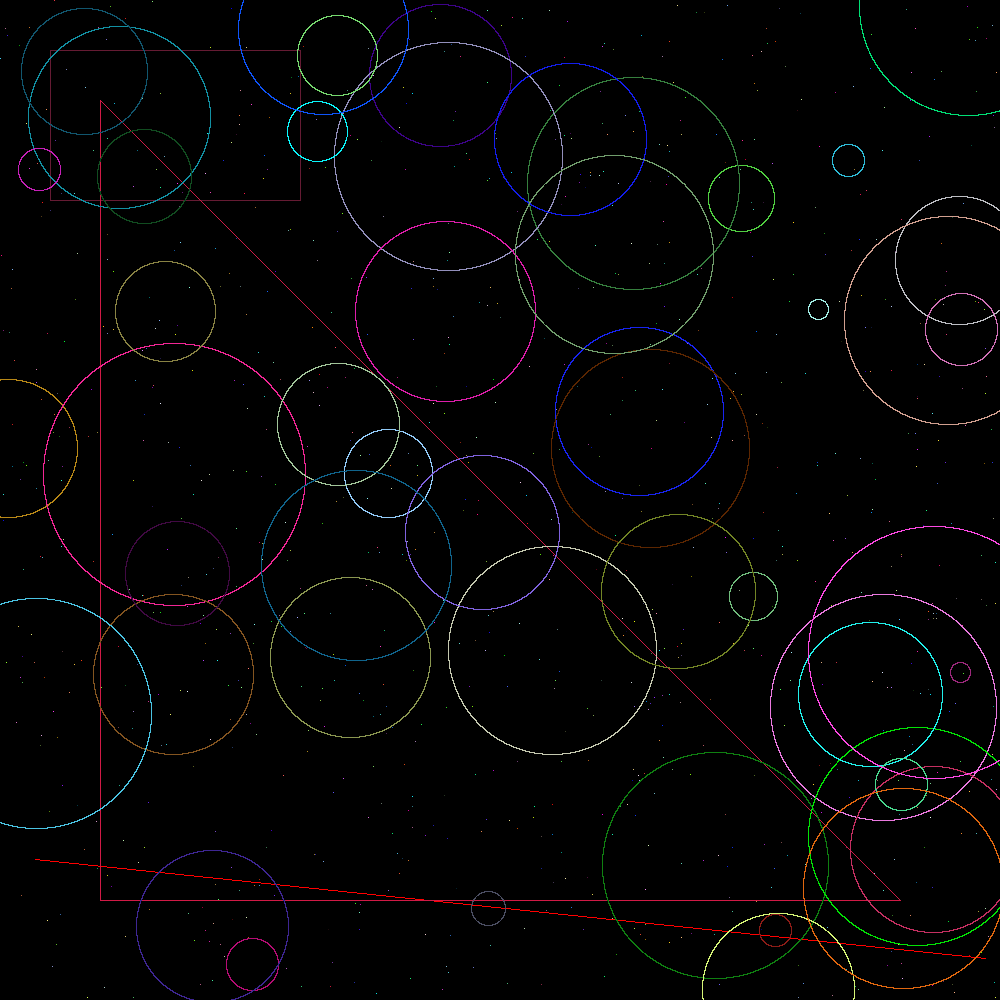
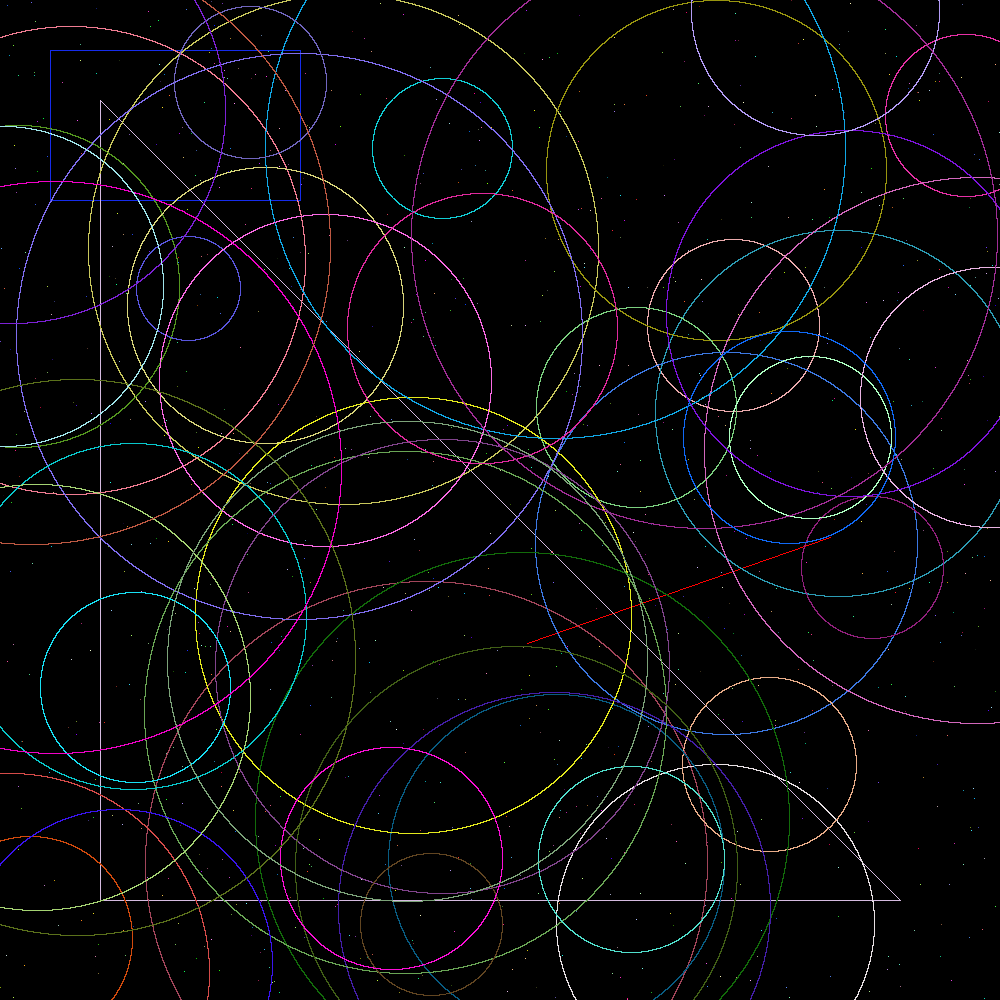
last version

diff --git a/geometrical_shapes/Circle.java b/geometrical_shapes/Circle.java
@@ -6,25 +6,22 @@ import java.util.Random;
 public class Circle implements Drawable {
     private Point center;
     private int radius;
-    private Color color;
 
     public Circle(Point center, int radius) {
         this.center = center;
         this.radius = radius;
-        Random rand = new Random();
-        this.color = new Color(rand.nextInt(256), rand.nextInt(256), rand.nextInt(256));
     }
 
     public static Circle random(int width, int height) {
         Random rand = new Random();
-        int radius = rand.nextInt(Math.min(width, height) / 8) + 10;
+        int radius = rand.nextInt(250) + 50;
         Point center = new Point(rand.nextInt(width), rand.nextInt(height));
         return new Circle(center, radius);
     }
 
     @Override
     public void draw(Displayable displayable) {
-
+        Color color = getColor();
         double radiusF = (double) radius;
         double centerX = (double) center.x;
         double centerY = (double) center.y;
@@ -45,10 +42,5 @@ public class Circle implements Drawable {
 
             angleDeg += step;
         }
-    }
-
-    @Override
-    public Color getColor() {
-        return color;
     }
 }

diff --git a/geometrical_shapes/Rectangle.java b/geometrical_shapes/Rectangle.java
@@ -1,7 +1,6 @@
 package geometrical_shapes;
 
 import java.awt.Color;
-import java.util.Random;
 
 public class Rectangle implements Drawable {
     private final Point topLeft;
@@ -10,16 +9,6 @@ public class Rectangle implements Drawable {
     public Rectangle(Point topLeft, Point bottomRight) {
         this.topLeft = topLeft;
         this.bottomRight = bottomRight;
-    }
-
-    public static Rectangle random(int maxX, int maxY) {
-        Random rand = new Random();
-        int x1 = rand.nextInt(maxX);
-        int y1 = rand.nextInt(maxY);
-        int x2 = rand.nextInt(maxX);
-        int y2 = rand.nextInt(maxY);
-        return new Rectangle(new Point(Math.min(x1, x2), Math.min(y1, y2)),
-                new Point(Math.max(x1, x2), Math.max(y1, y2)));
     }
 
     @Override

diff --git a/geometrical_shapes/Triangle.java b/geometrical_shapes/Triangle.java
@@ -13,10 +13,6 @@ public class Triangle implements Drawable {
         this.c = c;
     }
 
-    public static Triangle random(int maxX, int maxY) {
-        return new Triangle(Point.random(maxX, maxY), Point.random(maxX, maxY), Point.random(maxX, maxY));
-    }
-
     @Override
     public void draw(Displayable displayable) {
         Color color = this.getColor();
